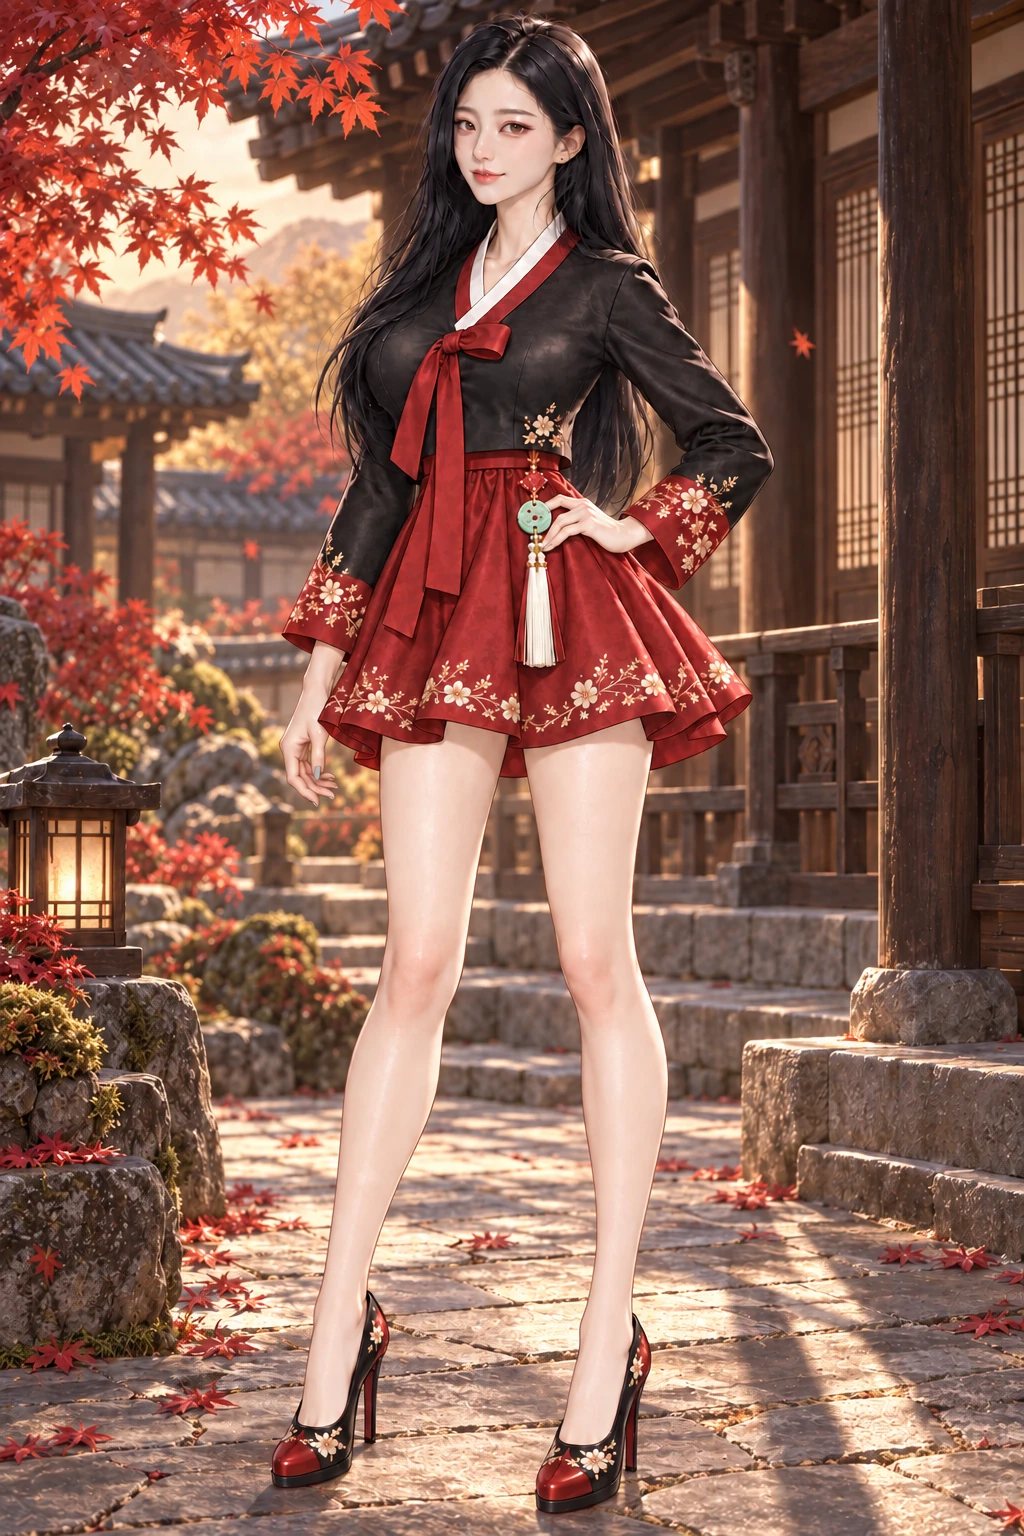
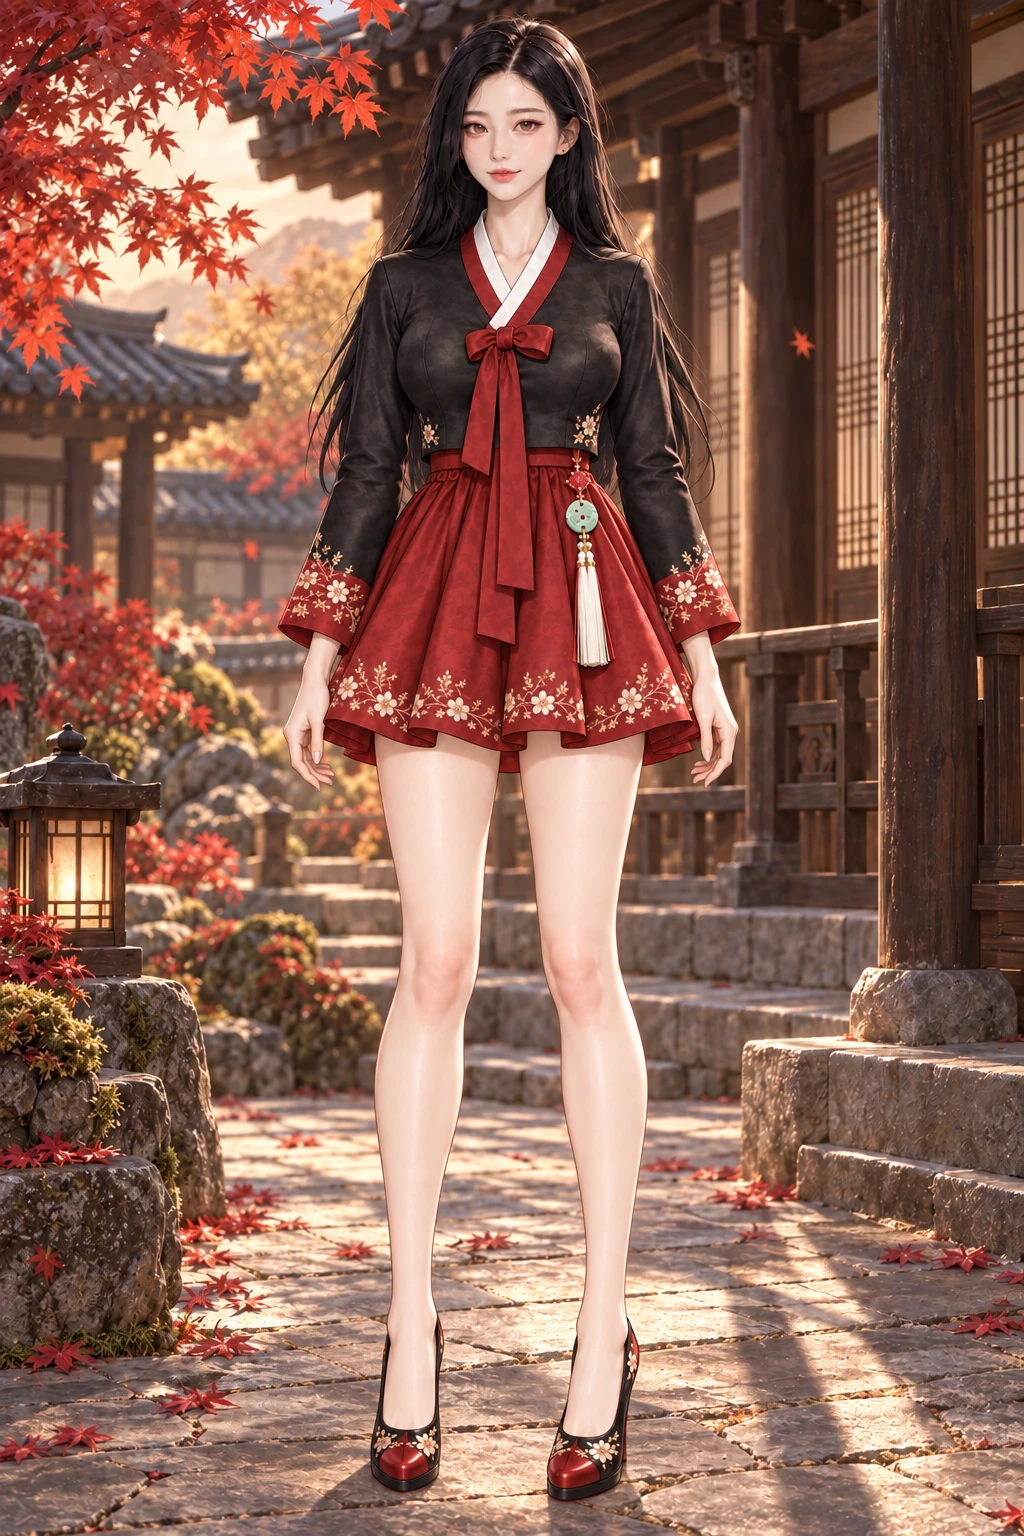
fix: redraw Joeun hanbok with balanced frontal pose

Changed region(s): [[0.25, 0.0, 0.75, 1.0], [0.1562, 0.8438, 0.2188, 0.875], [0.0312, 0.625, 0.0625, 0.6562]]

diff --git a/preview/avatar-clan-hanbok-v1/README.md b/preview/avatar-clan-hanbok-v1/README.md
@@ -1,10 +1,18 @@
 # 클랜 한복 — 로비·장비창 운영 리소스
 
-## 조은 좌우 균형 보정 — 2026-09-28
+## 조은 정면 재작화 V3 — 2026-09-28
 
-- 사용자 요청으로 조은의 검은 저고리 아래 좌우 가슴 볼륨·높이와 옷의 음영을 맞췄다. 얼굴·포즈·한복 구성과 한옥 배경은 유지하는 국소 편집이며, built-in `image_gen`을 사용했다.
+- V2의 국소 보정은 사용자에게 좌우 불균형으로 다시 반려됐다. V3는 상체를 정면으로 재작화하고 어깨 높이·좌우 옷 볼륨을 맞췄다. 양팔을 내리고 머리카락을 어깨 뒤로 보내 가슴 양쪽 실루엣을 동일하게 확인할 수 있게 했다. 얼굴, 검정·빨강 한복 구성, 자수·노리개와 가을 한옥 분위기를 계승했다.
+- built-in `image_gen`으로 `assets/joeun-lobby-source-art-v3.png`를 다시 그리고, 그 결과에서 배경만 제거해 `assets/joeun-equipment-source-art-v3.png`를 만들었다. 실제 프롬프트·입출력은 `joeun-balance-v3.prompts.json`에 기록했다. V1·V2 파일은 보존한다.
+- `node preview/avatar-clan-hanbok-v1/apply-joeun-balance-v3.mjs`로 조은 PC/모바일 로비·장비창 3개만 파생한다. 전체 빌더도 마지막에 V3를 적용한다. 런타임 경로와 캔버스 규격, 다른 7종 자산·매니페스트 항목은 유지한다.
+- 직전 운영 커밋은 `6d5c5e10c17fc85e63bf089a5893df38d0dac87e`, Pages는 `https://b3937059.cnine-card.pages.dev`다. 한복 자산 해시·규격·투명도·잘림·CMS 썸네일 연결을 검증하는 `tests/clan-avatar-hanbok-assets-20260927.test.mjs`만 지정해 scoped 배포한다. 배포 과정에서 한 번 실행하며 전체 게임 검사는 실행하지 않는다.
+- 배포 후 확인은 변경된 3개 WebP의 HTTP 응답과 매니페스트 해시 일치로 한정한다. DB·장착·소유권·기한·효과 변경이나 지급 재실행은 없다.
+
+## V2 기록 — 사용자 반려·V3로 대체
+
+- 사용자 요청으로 조은의 검은 저고리 음영을 국소 편집했으나, 사용자가 여전히 좌우 불균형을 지적했다. built-in `image_gen`을 사용한 V2는 보존 기록이며 현재 적용 대상이 아니다.
 - 원본 V1 두 장은 그대로 보존하고 `assets/joeun-equipment-source-art-v2.png`, `assets/joeun-lobby-source-art-v2.png`를 별도 저장했다. 최종 입력·출력·프롬프트는 `joeun-balance-v2.prompts.json`에 있다.
-- `node preview/avatar-clan-hanbok-v1/apply-joeun-balance-v2.mjs`는 조은의 PC/모바일 로비·장비창 WebP 3개와 해당 매니페스트 항목만 갱신한다. 기존 전체 빌더도 마지막에 이 보정을 적용해 V1로 되돌리지 않는다. 다른 7종 원화·파생물은 변경하지 않는다.
+- `apply-joeun-balance-v2.mjs`는 당시 재현용 보존 스크립트다. 현재는 V3 스크립트를 사용한다.
 - 기존 운영 이미지 경로와 장비창 640×1664 캔버스를 유지한다. DB·장착·소유권·기한·효과 및 게임 로직 변경은 없다. `/preview/*`의 ETag 재검증과 서비스워커 이미지 갱신 정책을 사용한다.
 - 관련 검사는 조은 원화/장비창 투명도·여백·크기·해시와 기존 한복 자산 연결 검사로 제한한다. 전체 게임 검사는 실행하지 않는다.
 - 직전 운영 소스는 `74d6f8640818bc149236e9c92b3b92a6866de5d2`(Pages `09c37fbc-6b2e-4e30-88e6-7431c795c535`). 그 이후 main에 이미 있던 운영 스크립트·테스트 파일이 자산 전용 명령의 허용 범위 밖이므로, 한복 자산 검사만 지정한 `deploy:production -- --scoped`를 사용한다.
